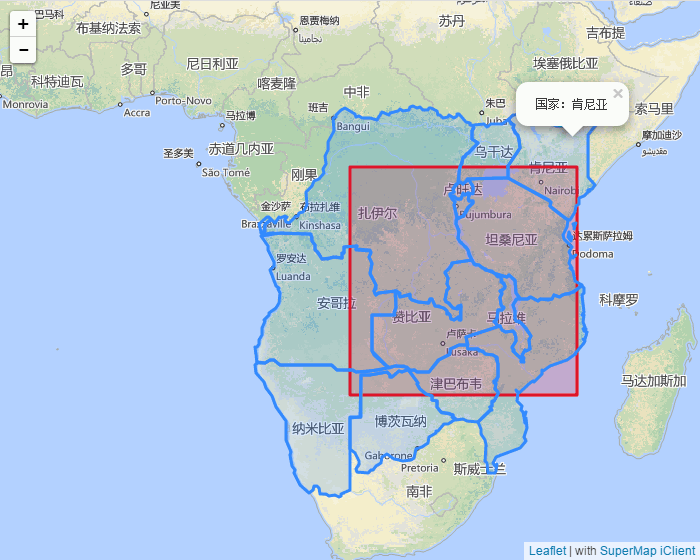
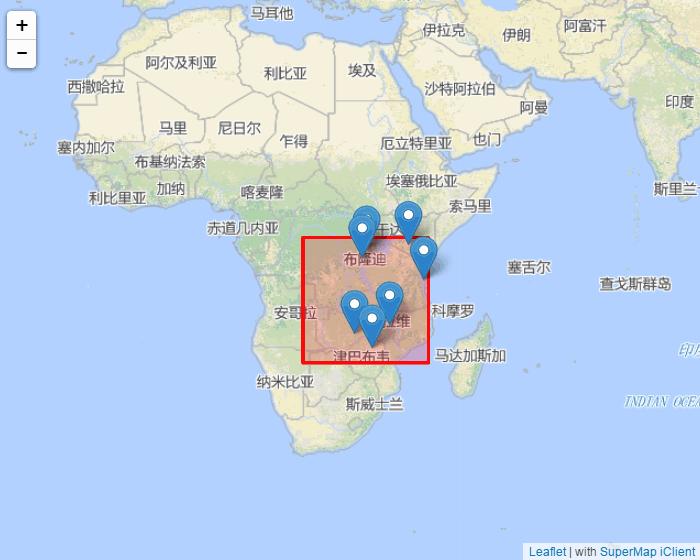
修改leaflet数据查询示例中的数据集以及对应示例的预览图。review by zhurch

diff --git a/examples/leaflet/02_getFeatureByBounds.html b/examples/leaflet/02_getFeatureByBounds.html
@@ -30,13 +30,13 @@
         var polygon = L.polygon([[-20, 20], [0, 20], [0, 40], [-20, 40], [-20, 20]], {color: 'red'});
         polygon.addTo(map);
         var boundsParam = new GetFeaturesByBoundsParameters({
-            datasetNames: ["World:Countries"],
+            datasetNames: ["World:Capitals"],
             bounds: polygon.getBounds()
         });
         L.supermap.getFeaturesService(url).getFeaturesByBounds(boundsParam).on("complete", function (serviceResult) {
             resultLayer = L.geoJSON(serviceResult.result, {
                 onEachFeature: function (feature, layer) {
-                    layer.bindPopup("国家：" + feature.properties.COUNTRY);
+                    layer.bindPopup("首都：" + feature.properties.CAPITAL);
                 }
             }).addTo(map);
         });
